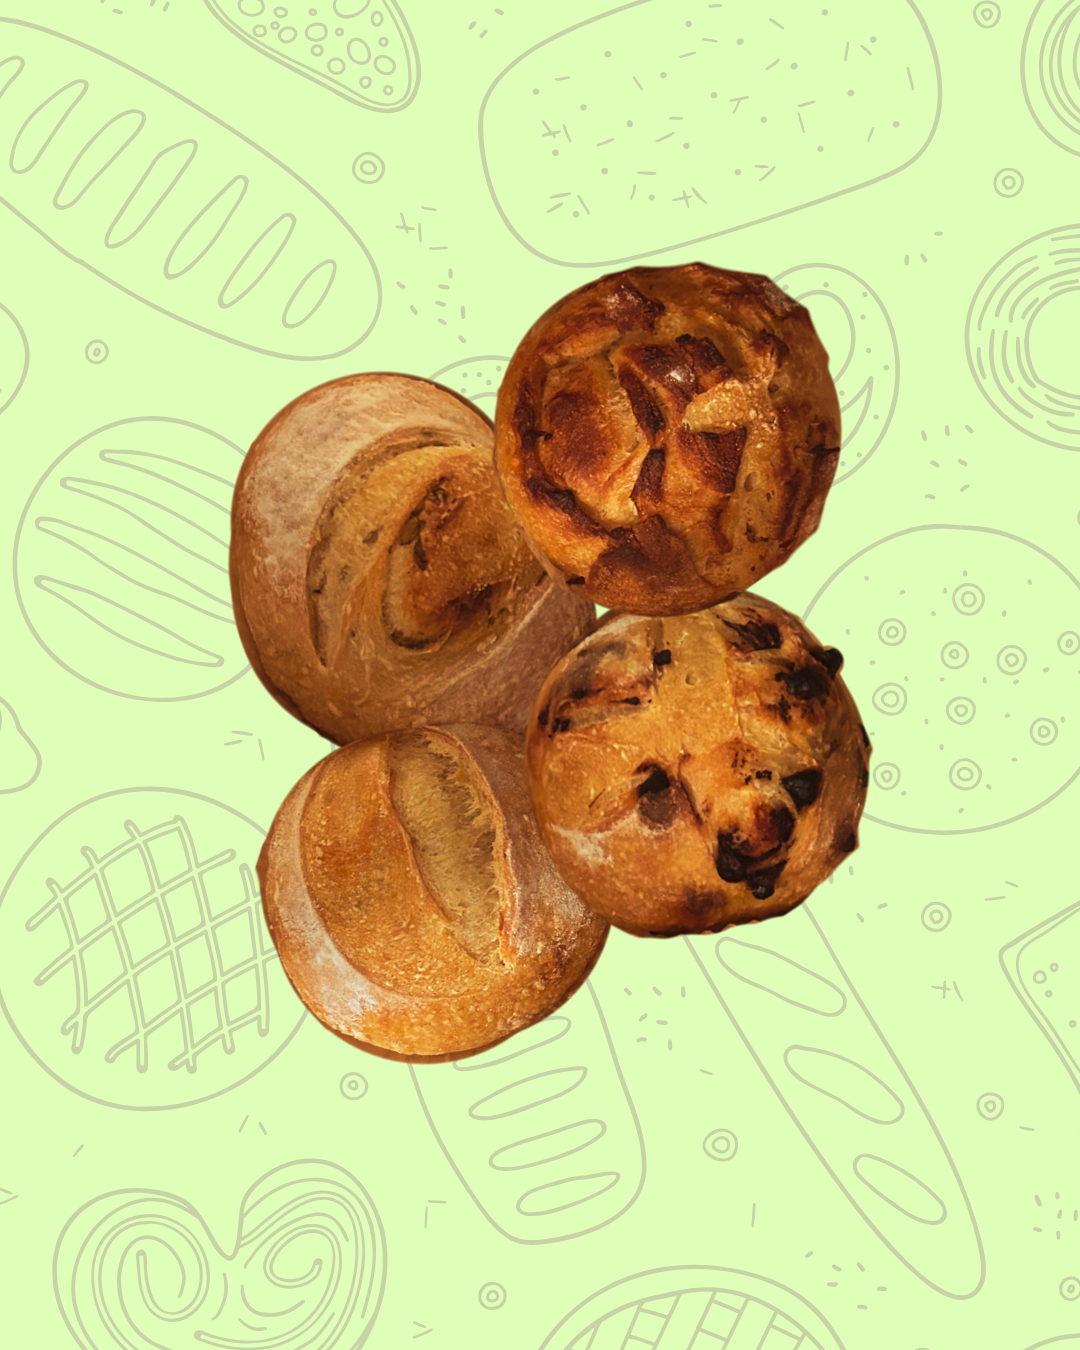
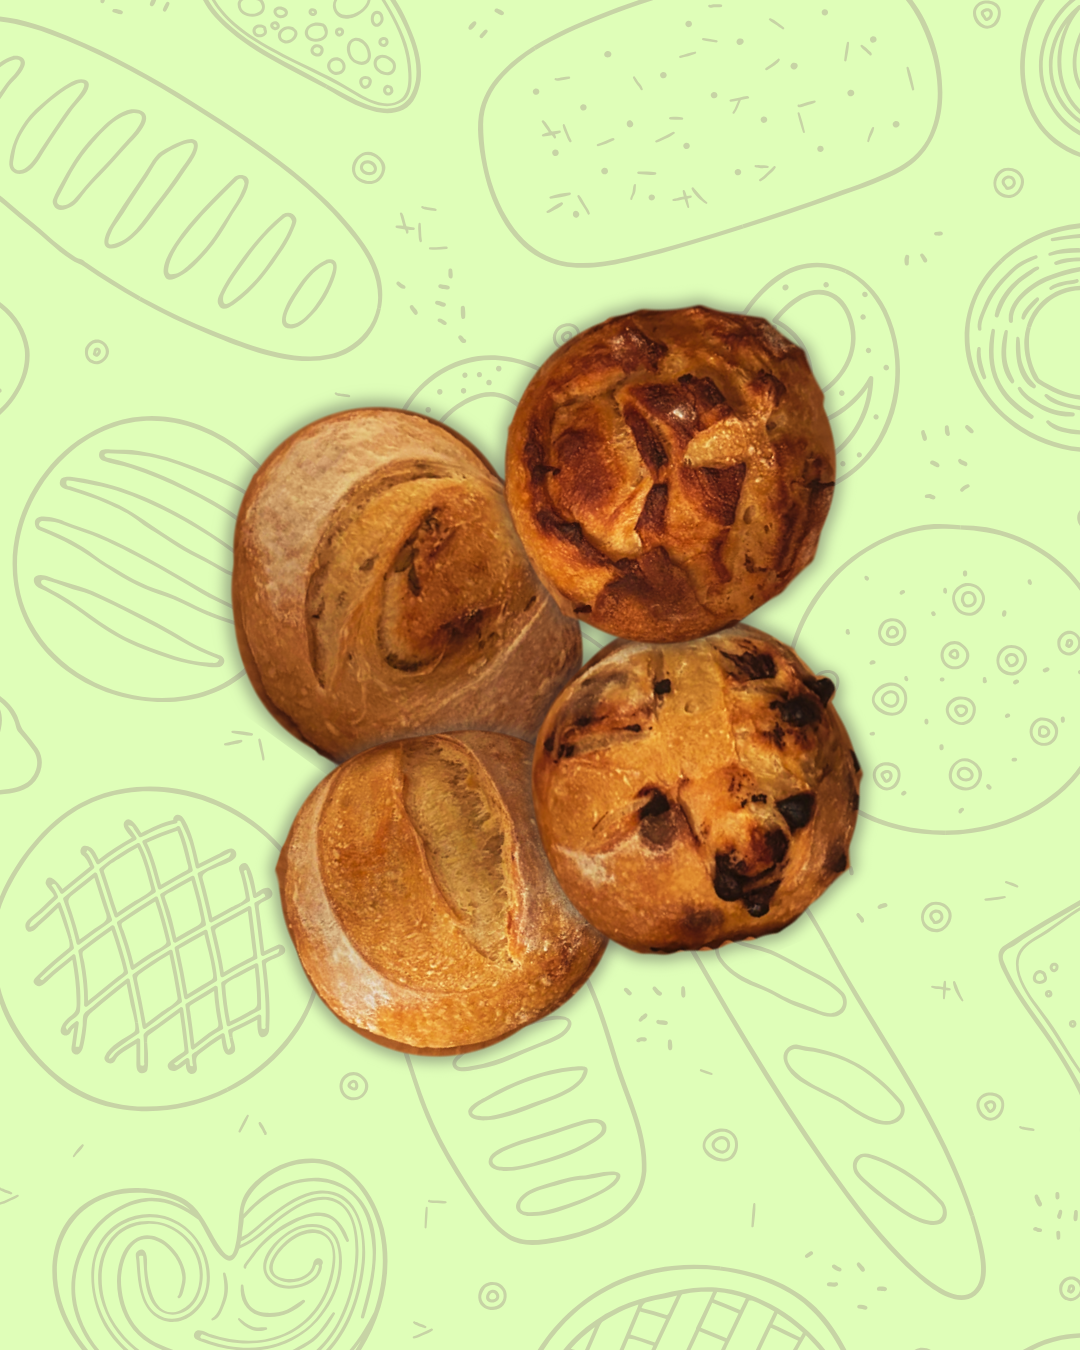
Made Bread Valentine's Themed

Changed region(s): [[0.1833, 0.1867, 0.825, 0.8089]]

diff --git a/pages/bakedGoods.html b/pages/bakedGoods.html
@@ -90,7 +90,7 @@
                     <!-- Item -->
                     <li class="bago_display">
                         <a href="productView.html?id=original_sourdough" title="Go to Product View">
-                            <img class="bago_display_image bago_card_1" src="../images/sourdough/original_sourdough_bg.png" alt="Image of Original Sourdough Bread">
+                            <img class="bago_display_image bago_card_1" src="../images/sourdough/original_sourdough_bg_val.png" alt="Image of Original Sourdough Bread">
                         </a>
                         <div class="bago_display_info">
                             <h3 class="bago_display_title">Original</h3>
@@ -109,7 +109,7 @@
                     <!-- Item -->
                     <li class="bago_display">
                         <a href="productView.html?id=rosemary-focaccia_sourdough" title="Go to Product View">
-                            <img class="bago_display_image bago_card_2" src="../images/sourdough/rosemary_focaccia_sourdough_bg.png" alt="Image of Rosemanry Foccacia Sourdough Bread">
+                            <img class="bago_display_image bago_card_2" src="../images/sourdough/rosemary_focaccia_sourdough_bg_val.png" alt="Image of Rosemanry Foccacia Sourdough Bread">
                         </a>
                         <div class="bago_display_info">
                             <h3 class="bago_display_title">Rosemary Foccacia</h3>
@@ -128,7 +128,7 @@
                     <!-- Item -->
                      <li class="bago_display">
                         <a href="productView.html?id=oregano-garlic-focaccia_sourdough" title="Go to Product View">
-                            <img class="bago_display_image bago_card_2" src="../images/sourdough/oregano_garlic_focaccia_sourdough_bg.png" alt="Image of Rosemanry Foccacia Sourdough Bread">
+                            <img class="bago_display_image bago_card_2" src="../images/sourdough/oregano_garlic_focaccia_sourdough_bg_val.png" alt="Image of Rosemanry Foccacia Sourdough Bread">
                         </a>
                         <div class="bago_display_info">
                             <h3 class="bago_display_title">Oregano-Garlic Focaccia</h3>
@@ -147,7 +147,7 @@
                     <!-- Item -->
                     <li class="bago_display">
                         <a href="productView.html?id=dinner-rolls_sourdough" title="Go to Product View">
-                            <img class="bago_display_image bago_card_3" src="../images/sourdough/dinner-rolls_sourdough_bg.png" alt="Sourdough Bread Dinner Rolls">
+                            <img class="bago_display_image bago_card_3" src="../images/sourdough/dinner-rolls_sourdough_bg_val.png" alt="Sourdough Bread Dinner Rolls">
                         </a>
                         <div class="bago_display_info">
                             <h3 class="bago_display_title">Dinner Rolls</h3>
@@ -166,7 +166,7 @@
                     <!-- Item -->
                     <li class="bago_display">
                         <!-- <a href="productView.html?id=variety-pack_sourdough" title="Go to Product View"> -->
-                            <img class="bago_display_image bago_card_1" src="../images/sourdough/variety-pack_sourdough_bg.png" alt="Image of Original Sourdough Bread">
+                            <img class="bago_display_image bago_card_1" src="../images/sourdough/variety-pack_sourdough_bg_val.png" alt="Image of Original Sourdough Bread">
                         <!-- </a> -->
                         <div class="bago_display_info">
                             <h3 class="bago_display_title">Mini Sourdough Variety Pack</h3>
